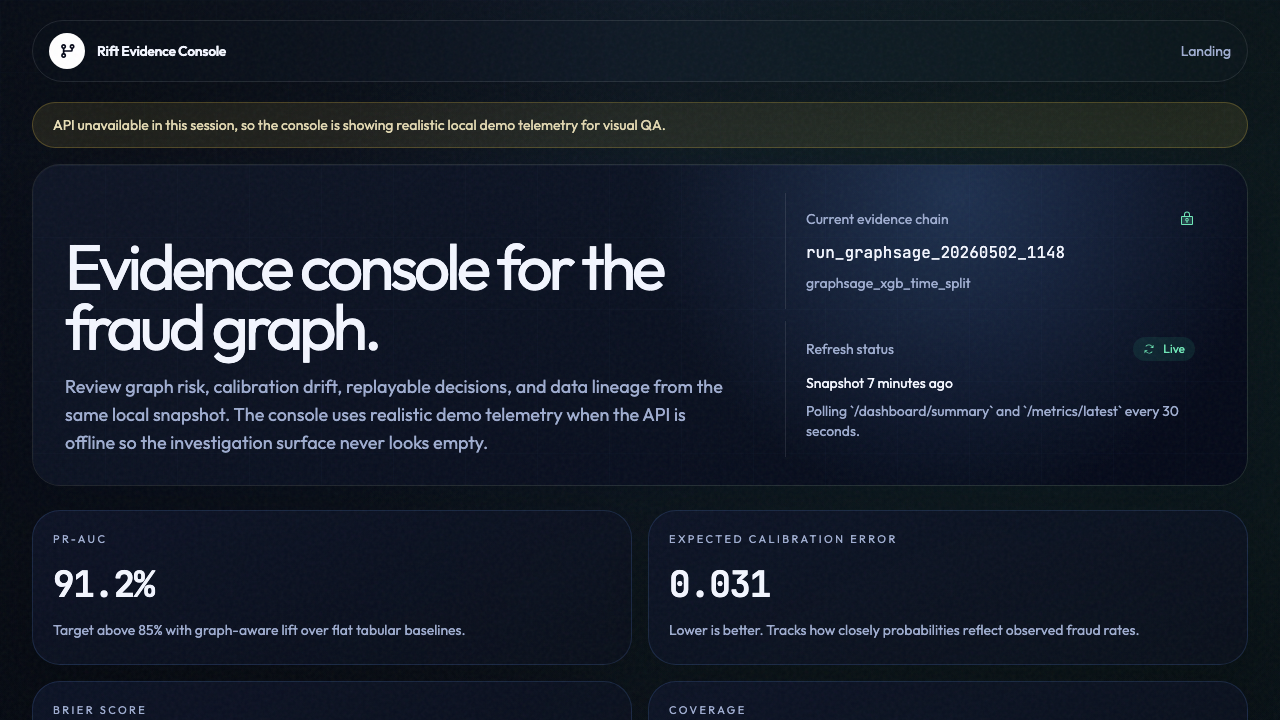
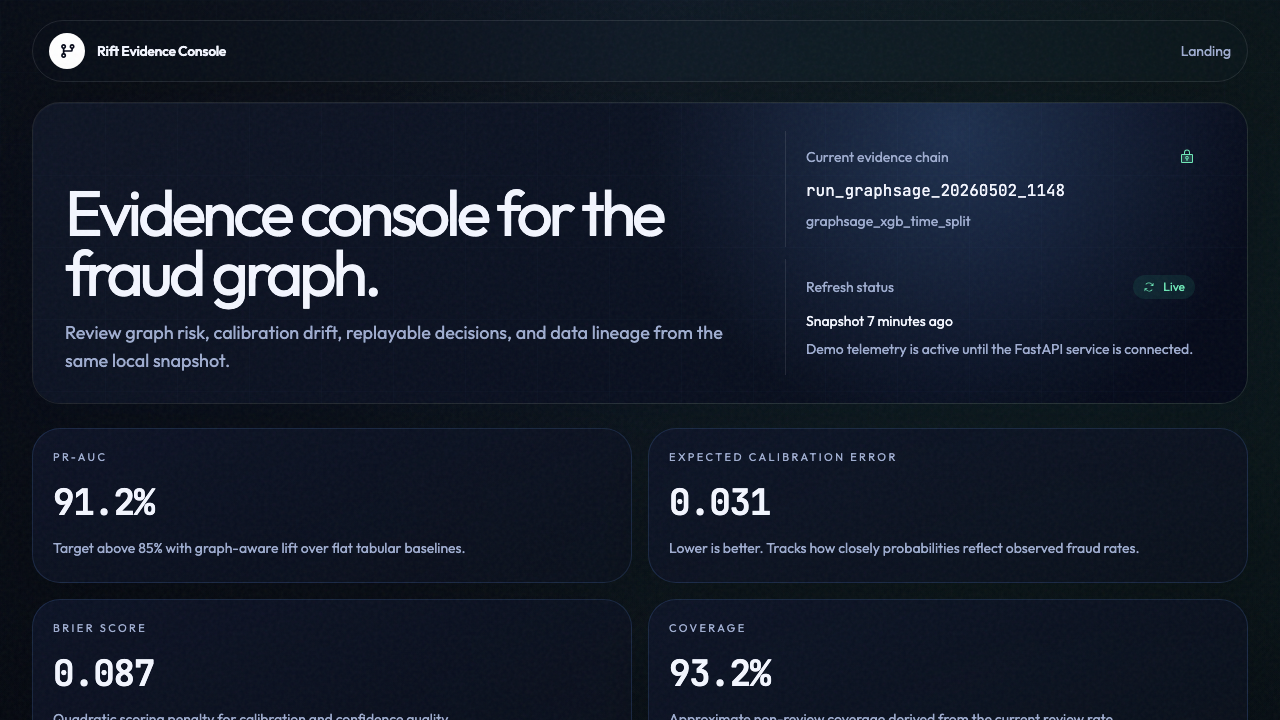
Strengthen frontend design gate

diff --git a/frontend/components/landing/landing-experience.tsx b/frontend/components/landing/landing-experience.tsx
@@ -77,6 +77,24 @@ const scrollItems = [
 
 const partners = ["DuckDB", "Polars", "FastAPI", "Next.js", "XGBoost", "PyTorch", "Recharts", "TanStack Table"];
 
+const evidenceLanes = [
+  {
+    title: "Ingest",
+    body: "Bronze, silver, and gold ETL snapshots keep source lineage attached.",
+    image: "https://picsum.photos/seed/rift-ledger-ingest/900/700"
+  },
+  {
+    title: "Score",
+    body: "Graph embeddings and tabular features meet before calibration.",
+    image: "https://picsum.photos/seed/rift-model-score/900/700"
+  },
+  {
+    title: "Replay",
+    body: "Every reviewer decision can be reconstructed from local artifacts.",
+    image: "https://picsum.photos/seed/rift-audit-replay/900/700"
+  }
+];
+
 export function LandingExperience() {
   const root = useRef<HTMLElement>(null);
   const pinSection = useRef<HTMLElement>(null);
@@ -181,9 +199,13 @@ export function LandingExperience() {
         </div>
       </nav>
 
-      <section className="relative min-h-[100dvh] px-4 pb-24 pt-36 md:px-8 md:pb-32 md:pt-44">
+      <section className="relative min-h-[100dvh] px-4 pb-20 pt-32 md:px-8 md:pb-28 md:pt-40">
         <div className="absolute inset-0 -z-0">
-          <div className="absolute inset-0 bg-[radial-gradient(circle_at_14%_18%,rgba(110,168,254,0.22),transparent_30%),radial-gradient(circle_at_86%_12%,rgba(47,191,113,0.14),transparent_26%),linear-gradient(135deg,rgba(8,13,27,0.94),rgba(3,7,18,0.98))]" />
+          <div
+            className="absolute inset-0 bg-cover bg-center opacity-45 grayscale contrast-125"
+            style={{ backgroundImage: "url(https://picsum.photos/seed/rift-forensic-command-wall/1920/1080)" }}
+          />
+          <div className="absolute inset-0 bg-[radial-gradient(circle_at_18%_18%,rgba(110,168,254,0.32),transparent_30%),radial-gradient(circle_at_84%_18%,rgba(47,191,113,0.2),transparent_27%),linear-gradient(135deg,rgba(8,13,27,0.9),rgba(3,7,18,0.98))]" />
           <div className="absolute inset-x-0 top-28 h-px bg-gradient-to-r from-transparent via-white/20 to-transparent" />
           <div className="absolute left-[8vw] top-36 hidden h-[62vh] w-px bg-gradient-to-b from-transparent via-white/15 to-transparent lg:block" />
           <div className="absolute inset-0 bg-[linear-gradient(rgba(110,168,254,0.06)_1px,transparent_1px),linear-gradient(90deg,rgba(110,168,254,0.06)_1px,transparent_1px)] bg-[size:96px_96px] opacity-30" />
@@ -191,21 +213,21 @@ export function LandingExperience() {
         </div>
 
         <div className="relative mx-auto max-w-[1400px]">
-          <div className="grid gap-12 lg:grid-cols-[minmax(0,1.02fr)_minmax(430px,0.98fr)] lg:items-end">
+          <div className="grid gap-10 lg:grid-cols-[minmax(0,0.95fr)_minmax(520px,1.05fr)] lg:items-center">
             <div className="min-w-0 max-w-6xl">
               <h1
                 data-hero-copy
-                className="max-w-6xl font-display text-[clamp(3rem,5vw,5.5rem)] font-semibold leading-[0.92] tracking-[-0.07em]"
+                className="max-w-6xl font-display text-[clamp(3.2rem,5.6vw,6.35rem)] font-semibold leading-[0.88] tracking-[-0.07em]"
               >
-                Follow the fraud graph until the evidence holds{" "}
+                Make fraud decisions{" "}
                 <span
                   className="mx-2 inline-block h-10 w-28 rounded-full bg-cover bg-center align-middle grayscale contrast-125 md:h-12 md:w-36"
-                  style={{ backgroundImage: "url(https://picsum.photos/seed/rift-inline-forensic-map/600/300)" }}
+                  style={{ backgroundImage: "url(https://picsum.photos/seed/rift-inline-ledger/600/300)" }}
                 />{" "}
-                in replay.
+                replayable.
               </h1>
               <p data-hero-copy className="mt-7 max-w-3xl text-lg leading-8 text-muted md:text-xl">
-                Rift is a local-first fraud lab where graph signals, calibrated uncertainty, and audit receipts converge into one reviewer-grade surface.
+                Rift turns graph risk, calibrated uncertainty, and governance evidence into one local-first review surface.
               </p>
               <div data-hero-copy className="mt-9 flex flex-col gap-3 sm:flex-row">
                 <Link
@@ -219,91 +241,93 @@ export function LandingExperience() {
                   className="inline-flex items-center justify-center rounded-full border border-white/25 bg-white/[0.08] px-7 py-4 text-sm font-semibold text-white shadow-[inset_0_1px_0_rgba(255,255,255,0.12)] transition hover:border-white/45 hover:bg-white/[0.12] active:scale-[0.98]"
                   href="#intelligence"
                 >
-                  Inspect the atlas
+                  Trace the workflow
                 </a>
               </div>
             </div>
 
-            <aside data-hero-copy className="glass-edge relative overflow-hidden rounded-[2rem] bg-slate-950/70 p-5 backdrop-blur-2xl">
-              <div className="absolute inset-0 bg-[radial-gradient(circle_at_80%_15%,rgba(110,168,254,0.2),transparent_30%)]" />
-              <div className="relative mb-5 flex items-center justify-between gap-4">
-                <div>
-                  <h2 className="font-display text-3xl font-semibold tracking-[-0.05em]">DEC_84AF31</h2>
-                  <p className="mt-2 text-sm leading-6 text-muted">A replayable fraud path with model lineage attached.</p>
-                </div>
-                <LockKey className="h-5 w-5 text-emerald-300" weight="duotone" />
-              </div>
-
-              <div className="relative h-[390px] overflow-hidden rounded-[1.5rem] border border-white/10 bg-[radial-gradient(circle_at_50%_42%,rgba(110,168,254,0.15),transparent_34%),linear-gradient(135deg,rgba(15,23,42,0.9),rgba(2,6,23,0.96))]">
-                <svg className="absolute inset-0 h-full w-full" role="img" viewBox="0 0 640 420">
-                  <title>Fraud graph evidence map</title>
-                  <defs>
-                    <linearGradient id="edge-gradient" x1="0" x2="1" y1="0" y2="1">
-                      <stop offset="0%" stopColor="#6ea8fe" stopOpacity="0.7" />
-                      <stop offset="100%" stopColor="#2fbf71" stopOpacity="0.28" />
-                    </linearGradient>
-                  </defs>
-                  {[
-                    [118, 112, 298, 186],
-                    [298, 186, 470, 96],
-                    [298, 186, 506, 278],
-                    [118, 112, 190, 312],
-                    [190, 312, 506, 278],
-                    [298, 186, 190, 312],
-                    [470, 96, 506, 278]
-                  ].map(([x1, y1, x2, y2], index) => (
-                    <line
-                      key={`${x1}-${y1}-${index}`}
-                      stroke="url(#edge-gradient)"
-                      strokeDasharray={index % 2 ? "6 10" : undefined}
-                      strokeWidth="1.4"
-                      x1={x1}
-                      x2={x2}
-                      y1={y1}
-                      y2={y2}
-                    />
-                  ))}
-                  {[
-                    [118, 112, "device"],
-                    [298, 186, "txn"],
-                    [470, 96, "merchant"],
-                    [506, 278, "account"],
-                    [190, 312, "user"]
-                  ].map(([x, y, label]) => (
-                    <g key={label}>
-                      <circle cx={x as number} cy={y as number} fill="rgba(255,255,255,0.08)" r="34" stroke="rgba(255,255,255,0.16)" />
-                      <circle cx={x as number} cy={y as number} fill={label === "txn" ? "#ffffff" : "#6ea8fe"} r={label === "txn" ? "8" : "6"} />
-                      <text fill="rgba(243,246,255,0.72)" fontFamily="JetBrains Mono" fontSize="11" x={(x as number) - 24} y={(y as number) + 52}>
-                        {String(label).toUpperCase()}
-                      </text>
-                    </g>
-                  ))}
-                </svg>
-                <div className="absolute bottom-4 left-4 right-4 grid gap-3 sm:grid-cols-3">
-                  {[
-                    ["Risk", "0.782"],
-                    ["Band", "Review"],
-                    ["Trail", "6 hops"]
-                  ].map(([label, value]) => (
-                    <div className="border-l border-white/15 bg-slate-950/64 px-3 py-2" key={label}>
-                      <p className="text-xs text-muted">{label}</p>
-                      <p className="mt-1 font-mono text-lg font-semibold">{value}</p>
+            <aside data-hero-copy className="relative">
+              <div className="glass-edge relative overflow-hidden rounded-[2rem] bg-slate-950/72 p-4 backdrop-blur-2xl">
+                <div
+                  aria-hidden="true"
+                  className="absolute inset-0 bg-cover bg-center opacity-25 grayscale contrast-125"
+                  style={{ backgroundImage: "url(https://picsum.photos/seed/rift-transaction-map/1400/1100)" }}
+                />
+                <div className="absolute inset-0 bg-[radial-gradient(circle_at_65%_20%,rgba(110,168,254,0.28),transparent_30%),linear-gradient(135deg,rgba(15,23,42,0.92),rgba(2,6,23,0.94))]" />
+                <div className="relative grid min-h-[560px] content-between gap-5">
+                  <div className="flex items-start justify-between gap-4 border-b border-white/10 pb-5">
+                    <div>
+                      <h2 className="font-display text-4xl font-semibold tracking-[-0.06em]">DEC_84AF31</h2>
+                      <p className="mt-2 max-w-sm text-sm leading-6 text-muted">A transaction path, model run, and reviewer outcome rendered as one traceable record.</p>
                     </div>
-                  ))}
-                </div>
-              </div>
-              <div className="relative mt-5 grid grid-cols-2 gap-3">
-                {[
-                  ["PR-AUC", "91.2%"],
-                  ["ECE", "0.031"],
-                  ["Reviewer load", "6.8%"],
-                  ["Audit rows", "18,472"]
-                ].map(([label, value]) => (
-                  <div className="border-t border-white/10 bg-white/[0.025] p-4" key={label}>
-                    <p className="text-xs text-muted">{label}</p>
-                    <p className="mt-2 font-mono text-2xl font-semibold">{value}</p>
+                    <LockKey className="h-5 w-5 shrink-0 text-emerald-300" weight="duotone" />
                   </div>
-                ))}
+
+                  <div className="relative h-[300px] overflow-hidden">
+                    <svg className="absolute inset-0 h-full w-full" role="img" viewBox="0 0 720 360">
+                      <title>Fraud graph evidence map</title>
+                      <defs>
+                        <linearGradient id="hero-edge-gradient" x1="0" x2="1" y1="0" y2="1">
+                          <stop offset="0%" stopColor="#6ea8fe" stopOpacity="0.78" />
+                          <stop offset="100%" stopColor="#2fbf71" stopOpacity="0.34" />
+                        </linearGradient>
+                      </defs>
+                      {[
+                        [92, 110, 322, 182],
+                        [322, 182, 594, 92],
+                        [322, 182, 620, 252],
+                        [92, 110, 182, 292],
+                        [182, 292, 620, 252],
+                        [322, 182, 182, 292],
+                        [594, 92, 620, 252],
+                        [92, 110, 594, 92]
+                      ].map(([x1, y1, x2, y2], index) => (
+                        <line
+                          key={`${x1}-${y1}-${index}`}
+                          stroke="url(#hero-edge-gradient)"
+                          strokeDasharray={index % 3 === 1 ? "6 12" : undefined}
+                          strokeWidth={index === 0 ? "1.8" : "1.2"}
+                          x1={x1}
+                          x2={x2}
+                          y1={y1}
+                          y2={y2}
+                        />
+                      ))}
+                      {[
+                        [92, 110, "device"],
+                        [322, 182, "transaction"],
+                        [594, 92, "merchant"],
+                        [620, 252, "account"],
+                        [182, 292, "user"]
+                      ].map(([x, y, label]) => (
+                        <g key={label}>
+                          <circle cx={x as number} cy={y as number} fill="rgba(255,255,255,0.08)" r={label === "transaction" ? "46" : "34"} stroke="rgba(255,255,255,0.18)" />
+                          <circle cx={x as number} cy={y as number} fill={label === "transaction" ? "#ffffff" : "#6ea8fe"} r={label === "transaction" ? "9" : "6"} />
+                          <text fill="rgba(243,246,255,0.72)" fontFamily="JetBrains Mono" fontSize="11" x={(x as number) - 30} y={(y as number) + 54}>
+                            {String(label).toUpperCase()}
+                          </text>
+                        </g>
+                      ))}
+                    </svg>
+                  </div>
+
+                  <div className="grid gap-3 md:grid-cols-3">
+                    {evidenceLanes.map((item) => (
+                      <div className="group overflow-hidden border-t border-white/10 pt-3" key={item.title}>
+                        <div className="relative mb-3 h-20 overflow-hidden rounded-xl">
+                          <div
+                            aria-hidden="true"
+                            className="h-full w-full bg-cover bg-center opacity-80 grayscale contrast-125 transition-transform duration-700 ease-out group-hover:scale-105"
+                            style={{ backgroundImage: `url(${item.image})` }}
+                          />
+                          <div className="absolute inset-0 bg-gradient-to-t from-slate-950/80 to-transparent" />
+                        </div>
+                        <h3 className="font-display text-xl font-semibold tracking-[-0.04em]">{item.title}</h3>
+                        <p className="mt-1 text-xs leading-5 text-muted">{item.body}</p>
+                      </div>
+                    ))}
+                  </div>
+                </div>
               </div>
             </aside>
           </div>

diff --git a/frontend/app/dashboard/page.tsx b/frontend/app/dashboard/page.tsx
@@ -106,7 +106,7 @@ export default function DashboardPage() {
 
   const summary = summaryQuery.data;
   const metrics = metricsQuery.data?.metrics ?? summary?.current_metrics?.metrics;
-  const isDemoData = Boolean(summaryQuery.error || metricsQuery.error);
+  const usesDemoData = Boolean(summaryQuery.error || metricsQuery.error);
   const coverage = 1 - Number(metrics?.review_rate ?? 0);
   const tables = useTables(summary);
 
@@ -197,11 +197,6 @@ export default function DashboardPage() {
           </div>
         </nav>
 
-        {isDemoData ? (
-          <div className="mb-4 rounded-full border border-amber-300/25 bg-amber-300/10 px-5 py-3 text-sm text-amber-100">
-            API unavailable in this session, so the console is showing realistic local demo telemetry for visual QA.
-          </div>
-        ) : null}
         <motion.header
           className="glass-edge relative mb-6 overflow-hidden rounded-[28px] border border-[color:var(--color-line)] bg-slate-950/72 px-6 py-6 md:px-8 md:py-7"
           initial={{ opacity: 0, y: 24 }}
@@ -216,7 +211,7 @@ export default function DashboardPage() {
                 Evidence console for the fraud graph.
               </h1>
               <p className="mt-4 max-w-2xl text-base leading-8 text-muted md:text-lg">
-                Review graph risk, calibration drift, replayable decisions, and data lineage from the same local snapshot. The console uses realistic demo telemetry when the API is offline so the investigation surface never looks empty.
+                Review graph risk, calibration drift, replayable decisions, and data lineage from the same local snapshot.
               </p>
             </div>
 
@@ -247,7 +242,9 @@ export default function DashboardPage() {
                 <div className="mt-3 text-sm text-ink">
                   {summary?.refreshed_at ? `Snapshot ${relativeTime(summary.refreshed_at)}` : "Waiting for API response"}
                 </div>
-                <div className="mt-2 text-sm text-muted">Polling `/dashboard/summary` and `/metrics/latest` every 30 seconds.</div>
+                <div className="mt-2 text-sm text-muted">
+                  {usesDemoData ? "Demo telemetry is active until the FastAPI service is connected." : "Connected to the FastAPI service."}
+                </div>
               </div>
             </div>
           </div>

diff --git a/docs/dashboard.md b/docs/dashboard.md
@@ -87,7 +87,7 @@ The dashboard is built with a hybrid rendering approach:
 - **Server-rendered HTML** in `src/rift/dashboard/views.py` generates the full dashboard and landing page using Python f-strings with `html.escape()` for XSS safety.
 - **Static CSS** in `src/rift/dashboard/static/dashboard.css` provides the enterprise dark theme with CSS custom properties.
 - **Next.js frontend** in `frontend/` provides a React-based landing page and dashboard with Tailwind CSS, charts (Recharts), GSAP scroll interactions, Phosphor icons, and animated components.
-- **Fallback demo telemetry** in `frontend/lib/mock-dashboard.ts` keeps the React dashboard populated for visual QA and screenshots when the FastAPI API is unavailable locally.
+- **Fallback demo telemetry** in `frontend/lib/mock-dashboard.ts` keeps the React dashboard populated for demos and screenshots when the FastAPI API is unavailable locally. Production deployments should connect the frontend to the FastAPI service.
 
 ### Key Files
 
@@ -212,7 +212,7 @@ npm install
 npm run dev
 ```
 
-The frontend connects to the same FastAPI backend at `http://localhost:8000`. When the backend is offline, realistic demo telemetry is used as fallback data and the dashboard displays a banner indicating that local preview data is active.
+The frontend connects to the same FastAPI backend at `http://localhost:8000`. When the backend is offline, realistic demo telemetry is used as fallback data so the dashboard remains populated for screenshots and demo walkthroughs. This fallback is a preview aid; production use should connect the API and treat `/dashboard/summary` and `/metrics/latest` as the source of truth.
 
 To verify:
 
@@ -232,7 +232,7 @@ Use these gates for future landing-page or dashboard presentation work:
 - Bento grids should keep `grid-flow-dense` and span math that avoids intentional empty cells.
 - Avoid cheap meta labels, fake technical pills, excessive microcopy, nested cards, and giant wrapper panels unless they materially clarify the workflow.
 - Verify button contrast in both light and dark CTA areas.
-- Keep fallback demo telemetry visible for visual QA when the FastAPI backend is offline.
+- Keep fallback demo telemetry realistic and populated when the FastAPI backend is offline, but do not show a large warning banner in screenshots.
 
 Cheap/meta patterns to remove:
 

diff --git a/README.md b/README.md
@@ -148,7 +148,7 @@ Launch the built-in dashboard:
 rift dashboard --host 127.0.0.1 --port 8000
 ```
 
-Launch the premium Next.js frontend:
+Launch the Next.js frontend:
 
 ```bash
 cd frontend
@@ -156,7 +156,7 @@ npm install
 npm run dev
 ```
 
-Then visit `http://localhost:3000` for the landing page or `http://localhost:3000/dashboard` for the React operations console. If the FastAPI backend is not running, the console uses realistic local demo telemetry so visual QA and screenshots still represent a populated system.
+Then visit `http://localhost:3000` for the landing page or `http://localhost:3000/dashboard` for the React operations console. The production path should connect to the FastAPI backend at `http://localhost:8000`; when that backend is not running, the console quietly uses realistic local demo telemetry so screenshots and demos stay populated.
 
 Note: the local Docker stack maps Grafana to `localhost:3000`, which conflicts with the default Next.js dev server port. If Grafana is already running, start Next.js on another port with `npm run dev -- --port 3001`.
 

diff --git a/AGENTS.md b/AGENTS.md
@@ -170,4 +170,4 @@ A task is done when:
 ## Known Friction
 
 - `docker-compose.yml` maps Grafana to port `3000`, which conflicts with the default Next.js dev server. If both are needed, run one on a different port.
-- The frontend can display realistic demo telemetry when the FastAPI backend is offline; this is intentional for visual QA and screenshots.
+- The frontend can display realistic demo telemetry when the FastAPI backend is offline; this is intentional for demos and screenshots. Document the need to connect FastAPI for production, but do not put a large API warning banner in screenshot-oriented UI.
